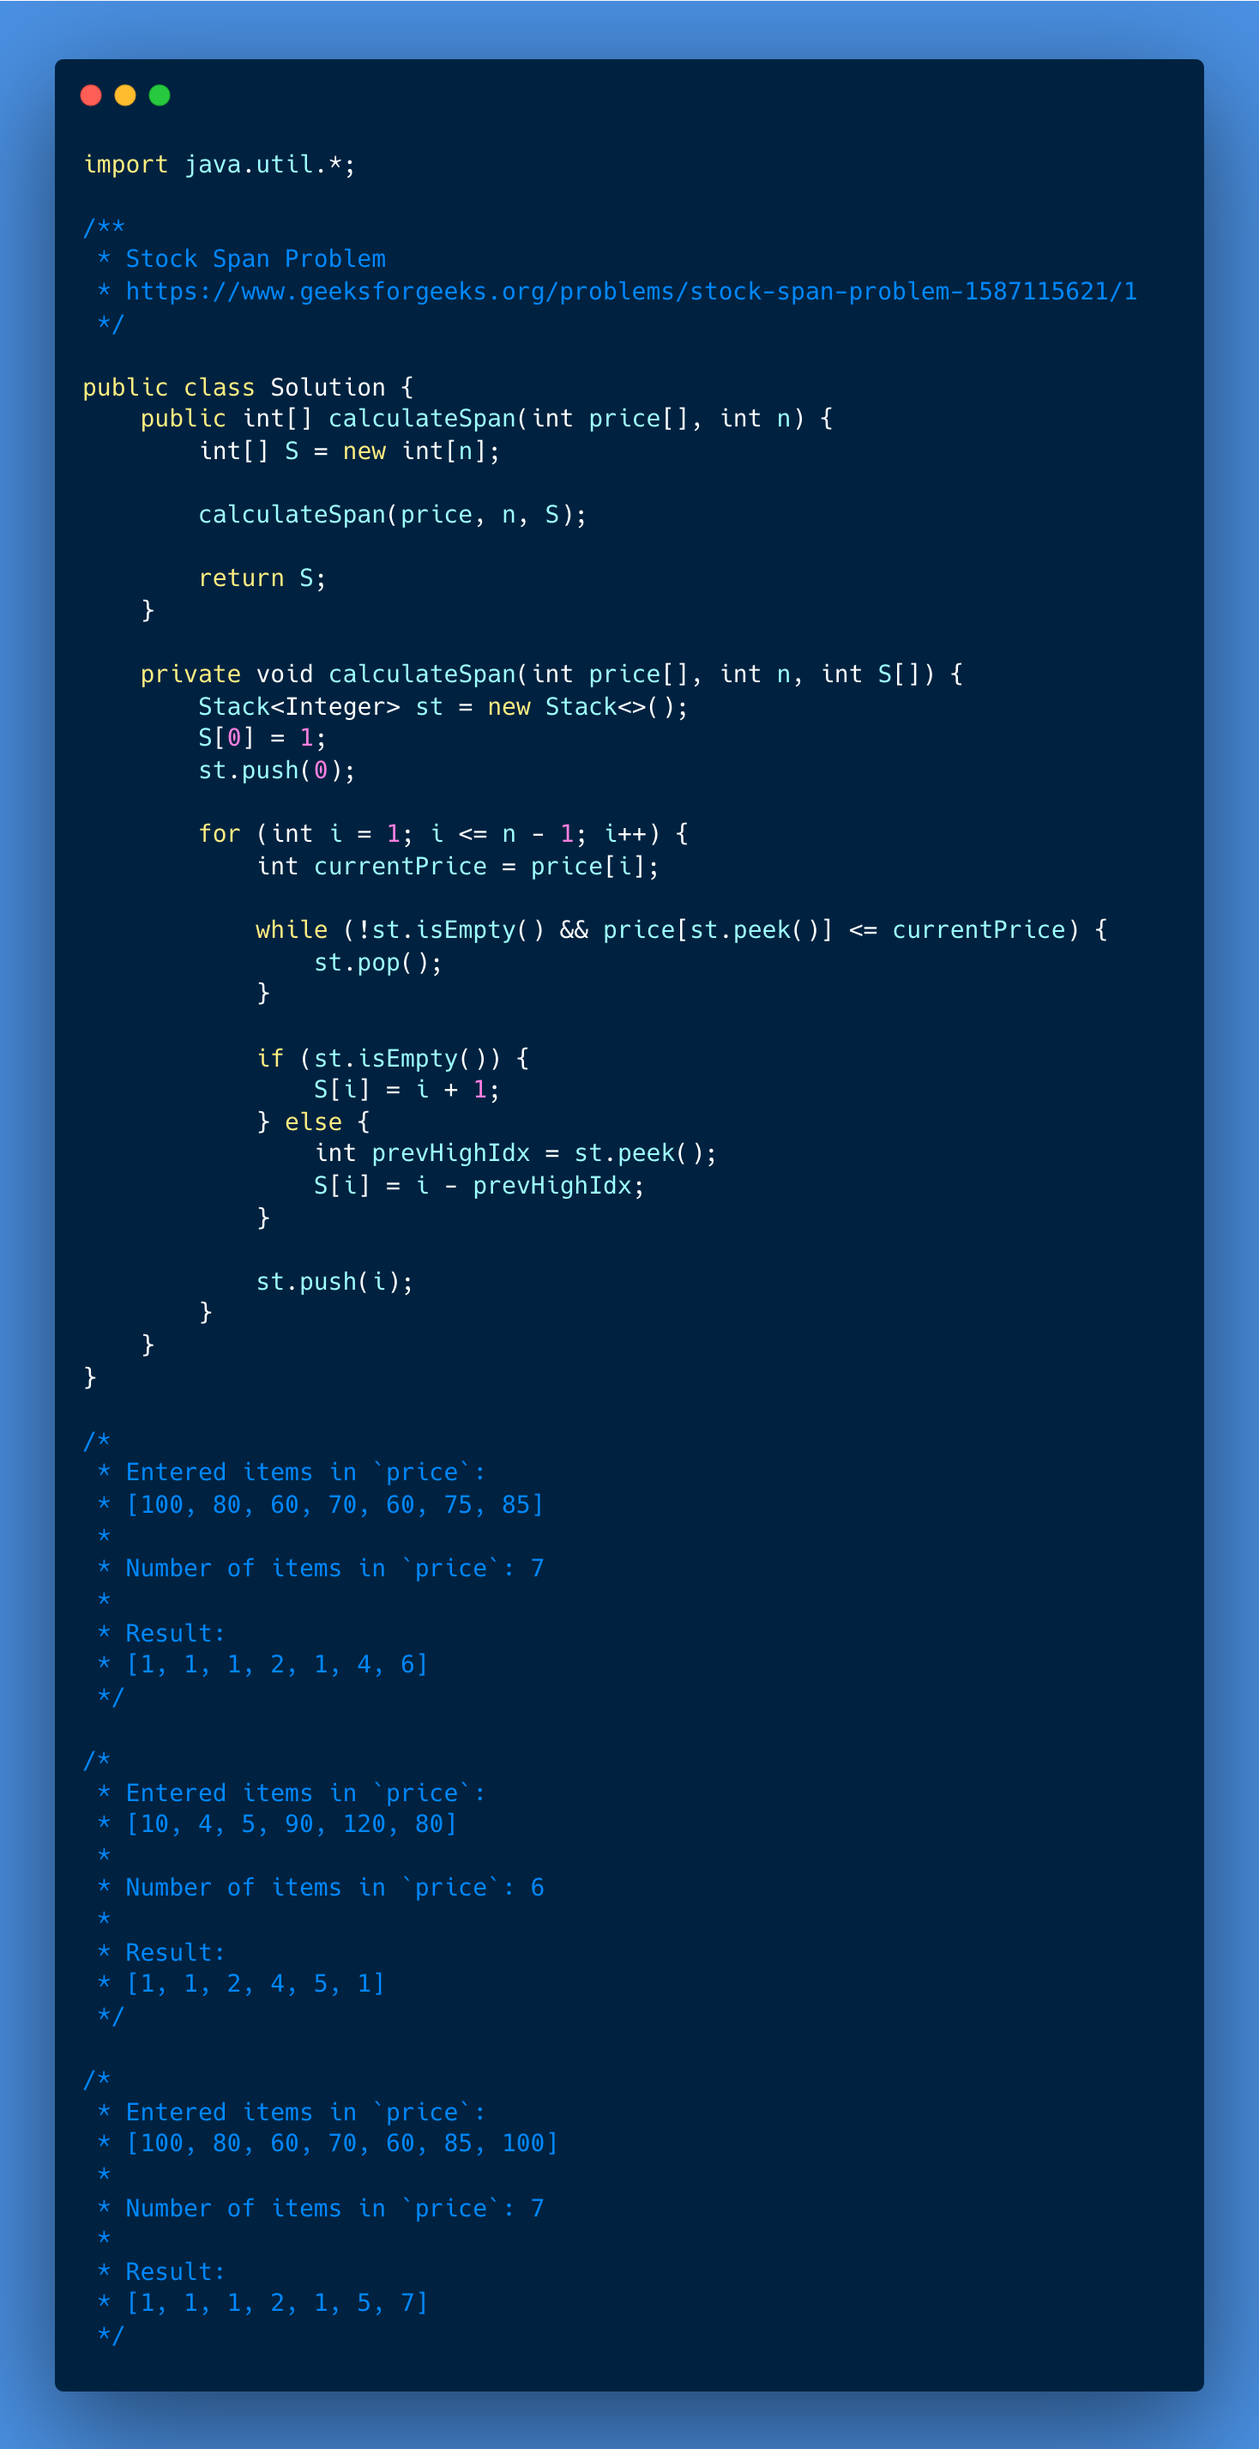
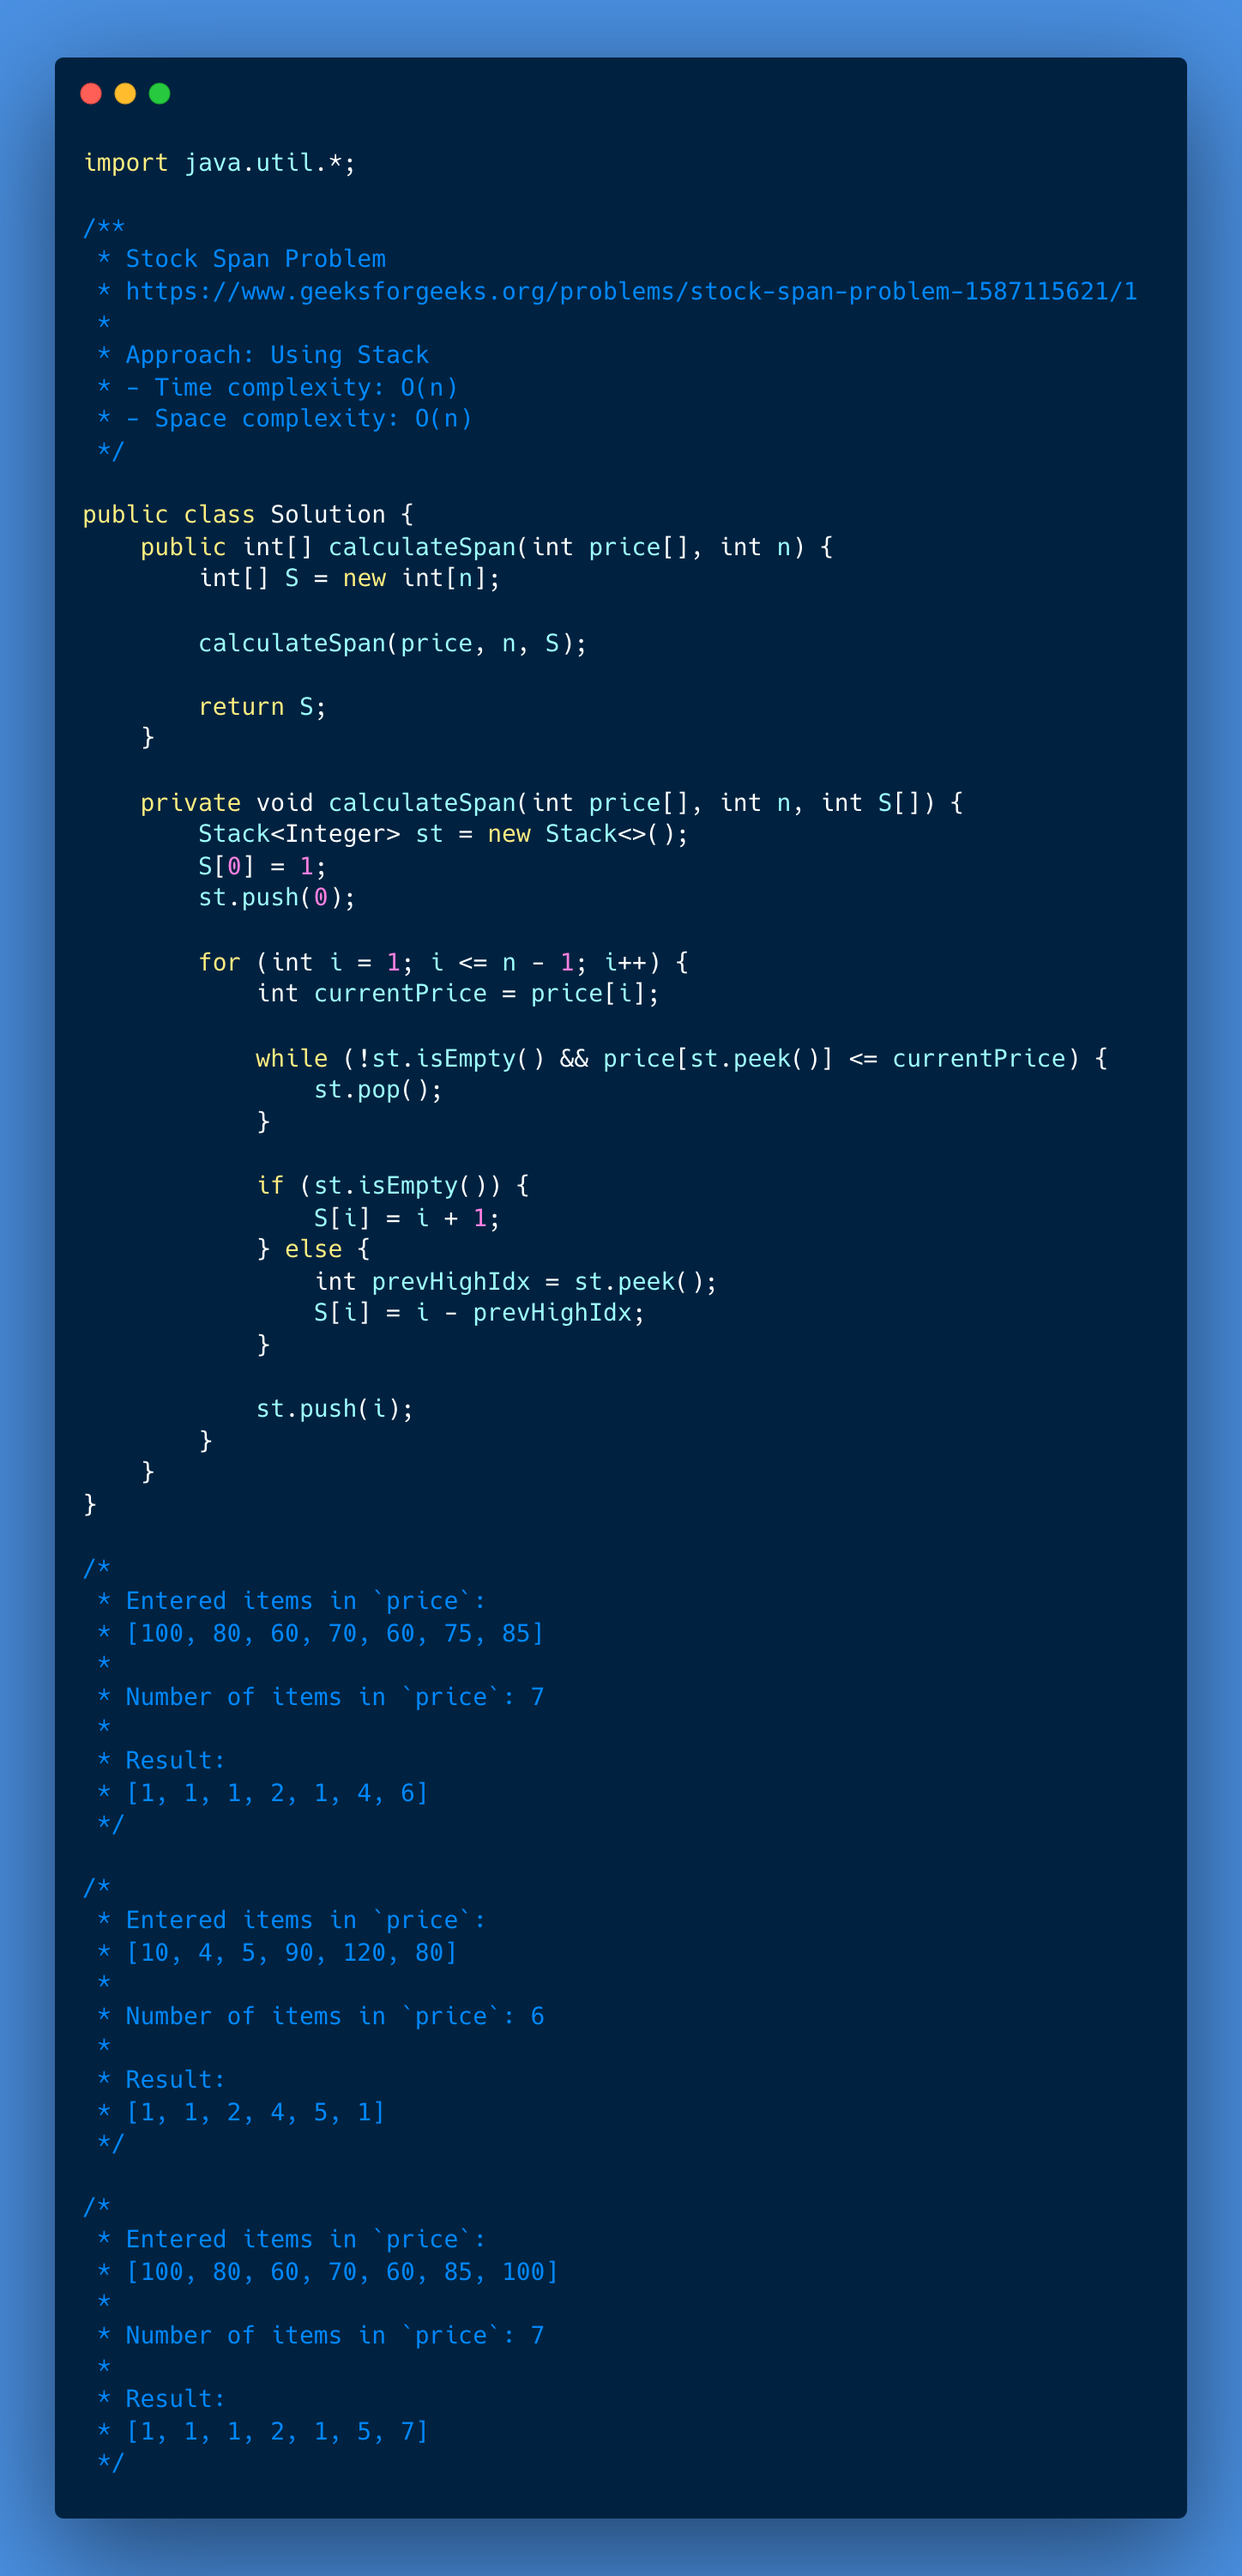
Stock span comments updates

diff --git a/177-stock-span/001-solution/Solution.java b/177-stock-span/001-solution/Solution.java
@@ -3,6 +3,10 @@ import java.util.*;
 /**
  * Stock Span Problem
  * https://www.geeksforgeeks.org/problems/stock-span-problem-1587115621/1
+ * 
+ * Approach: Using Stack
+ * - Time complexity: O(n)
+ * - Space complexity: O(n)
  */
 
 public class Solution {
